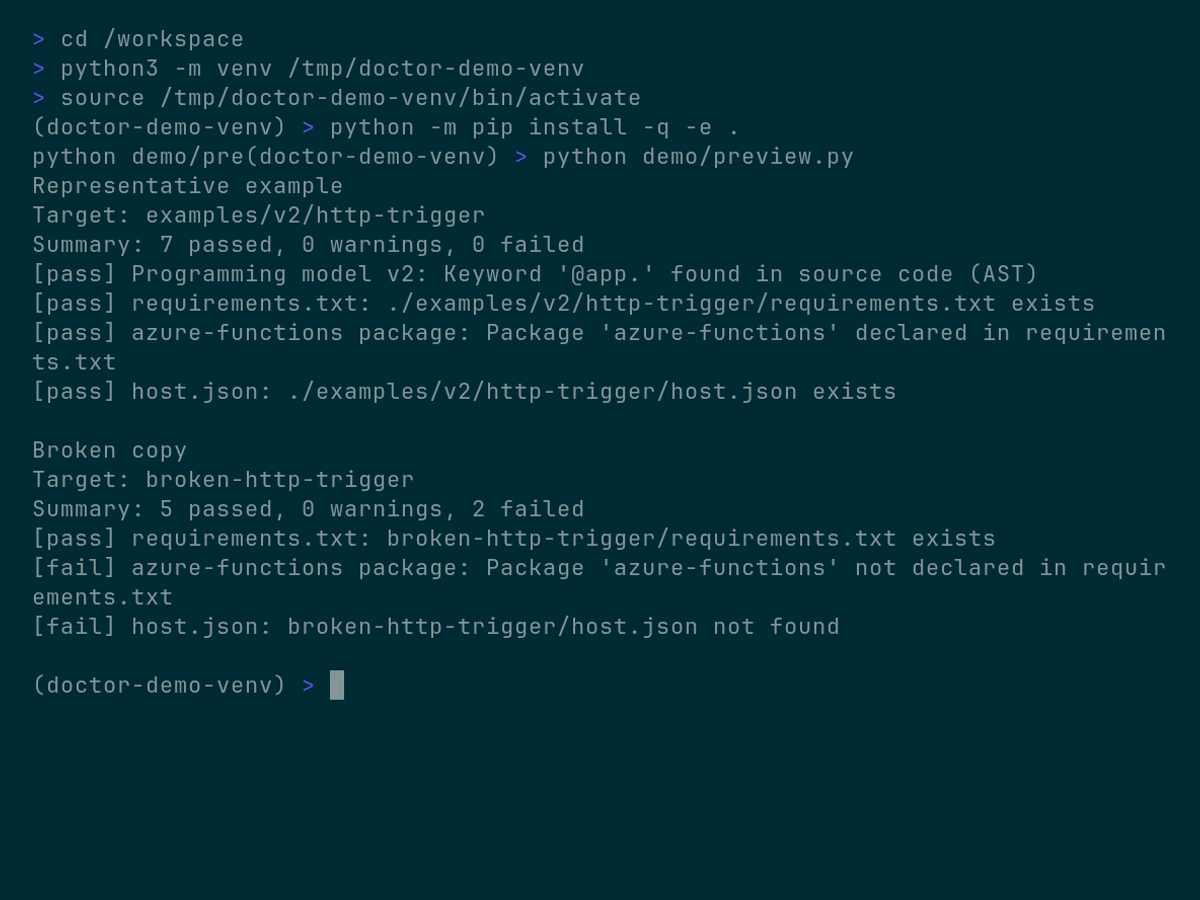
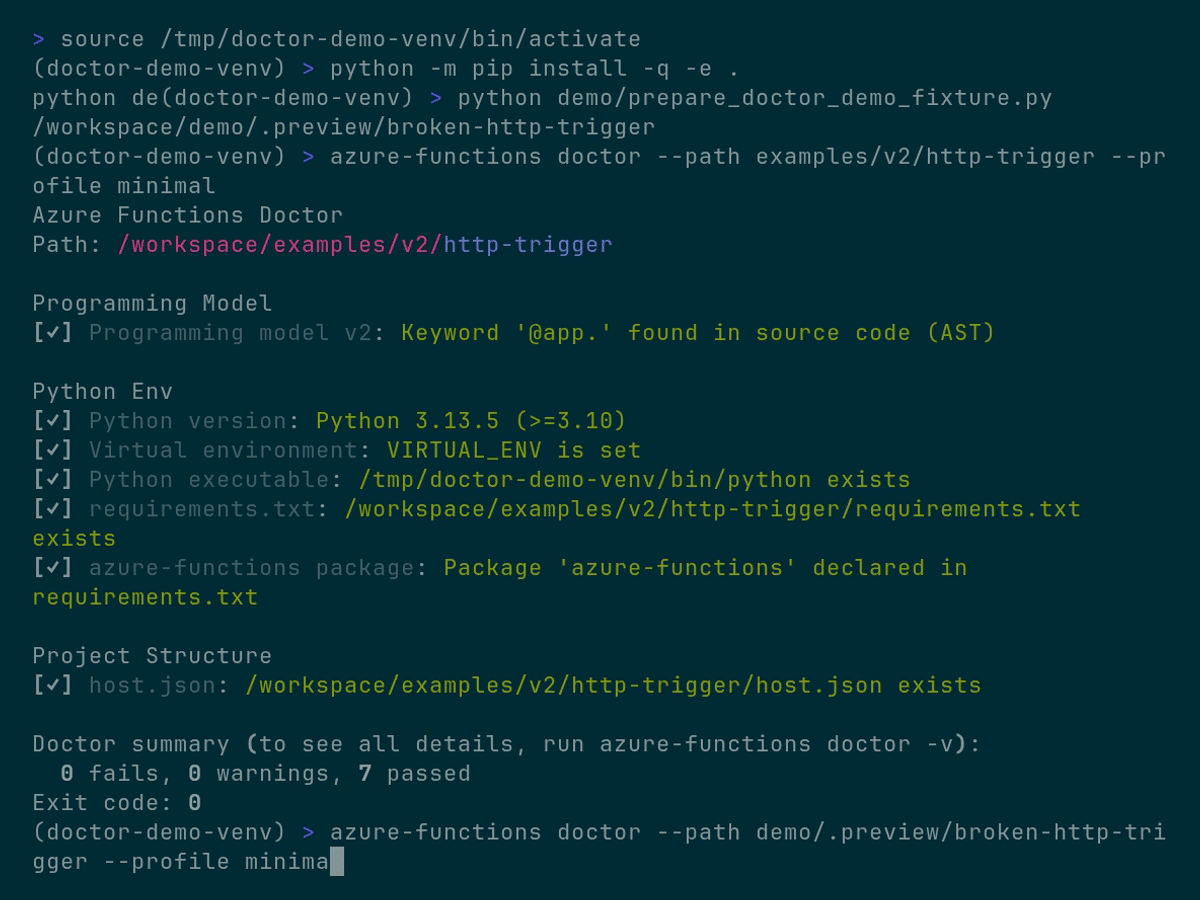
docs: run the real doctor CLI in the demo

diff --git a/demo/prepare_doctor_demo_fixture.py b/demo/prepare_doctor_demo_fixture.py
@@ -1,0 +1,25 @@
+from __future__ import annotations
+
+from pathlib import Path
+import shutil
+
+REPO_ROOT = Path(__file__).resolve().parents[1]
+EXAMPLE_DIR = REPO_ROOT / "examples" / "v2" / "http-trigger"
+PREVIEW_DIR = REPO_ROOT / "demo" / ".preview"
+BROKEN_DIR = PREVIEW_DIR / "broken-http-trigger"
+
+
+def main() -> None:
+    PREVIEW_DIR.mkdir(parents=True, exist_ok=True)
+    if BROKEN_DIR.exists():
+        shutil.rmtree(BROKEN_DIR)
+
+    shutil.copytree(EXAMPLE_DIR, BROKEN_DIR)
+    (BROKEN_DIR / "host.json").unlink()
+    (BROKEN_DIR / "requirements.txt").write_text("requests==2.32.0\n", encoding="utf-8")
+
+    print(BROKEN_DIR)
+
+
+if __name__ == "__main__":
+    main()

diff --git a/README.md b/README.md
@@ -80,8 +80,8 @@ azure-functions doctor --format json
 ## Demo
 
 The demo below is generated from [`demo/doctor-demo.tape`](demo/doctor-demo.tape) with VHS.
-It shows the doctor validating the representative example and then reporting concrete failures
-from an intentionally broken copy.
+It runs the real `azure-functions doctor` CLI against the representative example
+and then against an intentionally broken copy to show the pass/fail contrast.
 
 ![Doctor demo](docs/assets/doctor-demo.gif)
 

diff --git a/demo/README.md b/demo/README.md
@@ -3,5 +3,5 @@
 The README demo is generated from code:
 
 - `doctor-demo.tape` renders the terminal GIF with VHS.
-- `render_doctor_output.py` runs the doctor against a representative example and an intentionally broken copy.
+- `prepare_doctor_demo_fixture.py` creates an intentionally broken copy of the representative example.
 - `make demo` regenerates the README demo asset.
